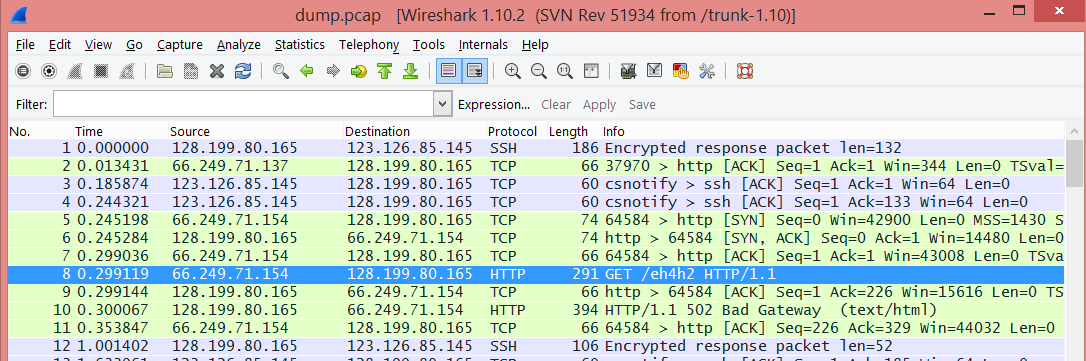
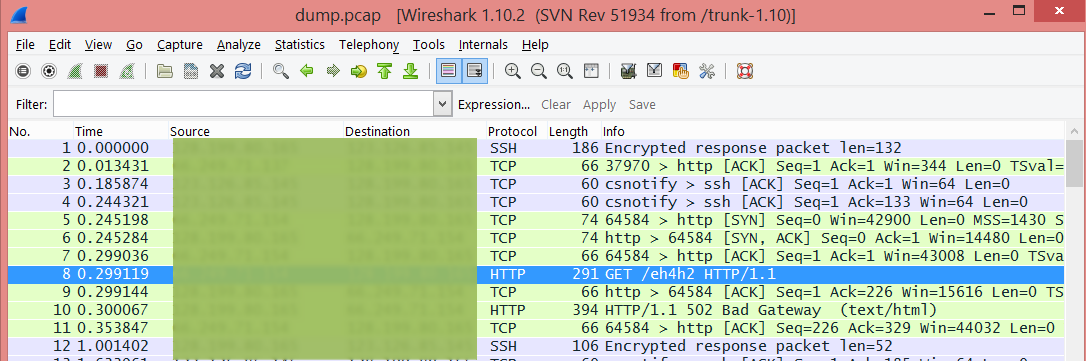
new post

Changed region(s): [[0.1519, 0.3657, 0.4558, 1.0]]

diff --git a/content/linux/open-tcpdump-result-with-wireshark-gui.md b/content/linux/open-tcpdump-result-with-wireshark-gui.md
@@ -61,7 +61,7 @@ tags: tcpdump, wireshark
     $ sudo tcpdump -i eth0 -A host 3sd.me and port 80 and 'tcp[((tcp[12:1] & 0xf0) >> 2):4] = 0x47455420'
     tcpdump: verbose output suppressed, use -v or -vv for full protocol decode
     listening on eth0, link-type EN10MB (Ethernet), capture size 65535 bytes
-    18:41:59.219052 IP 104.152.189.106.62093 > 3sd.me.http: Flags [P.], seq 2875869606:2875869979, ack 2796606839, win 64240, length 373
+    18:41:59.219052 IP xxx.xxx.xxx.xxxx > 3sd.me.http: Flags [P.], seq 2875869606:2875869979, ack 2796606839, win 64240, length 373
     E.....@.r..Gh..j..P....P.jI....wP....7..GET /JbVGP HTTP/1.1
     Host: 3sd.me
     Connection: Keep-Alive
